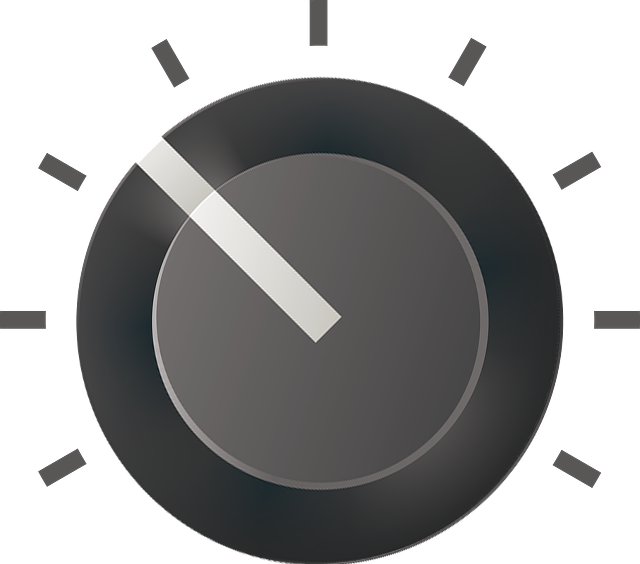
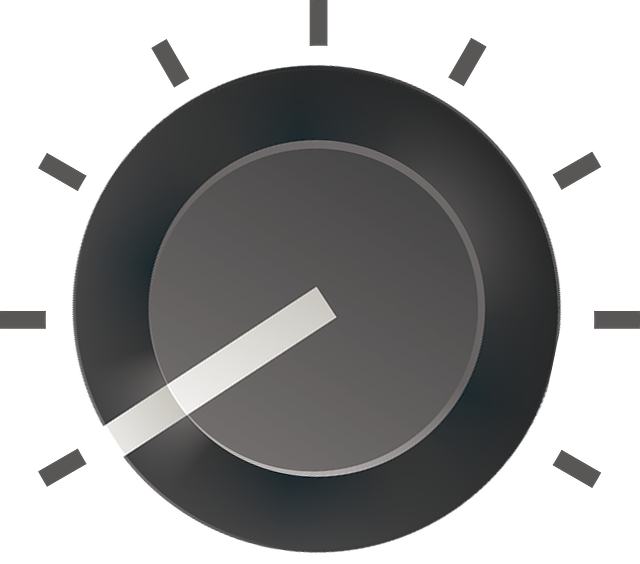
made the space button not spammable

Changed region(s): [[0.0938, 0.0904, 0.9062, 1.0], [0.7812, 0.2713, 0.8438, 0.3918]]

diff --git a/dist/main.js b/dist/main.js
@@ -142,7 +142,7 @@ eval("__webpack_require__.r(__webpack_exports__);\n/* harmony import */ var _pla
 /***/ (function(module, __webpack_exports__, __webpack_require__) {
 
 "use strict";
-eval("__webpack_require__.r(__webpack_exports__);\n/* harmony import */ var _game_js__WEBPACK_IMPORTED_MODULE_0__ = __webpack_require__(/*! ./game.js */ \"./src/game.js\");\n\r\nconst Util = __webpack_require__(/*! ./util */ \"./src/util.js\");\r\nconst spritesheet = new Image();\r\nspritesheet.src = \"../images/spritesheet.png\";\r\n\r\n// Constants and functions\r\n\r\n\r\n\r\n\r\n\r\nconst MAPSIZE = { tw: 21, th: 12 },\r\n    TILESIZE = 70,\r\n    UNIT = TILESIZE,\r\n    GRAVITY = 9.8 * 8, \r\n    MAXDX = 6,      \r\n    MAXDY = 20,      \r\n    ACCELERATION = 1 / 2,    \r\n    FRICTION = 1 / 6,   \r\n    IMPULSE = 1500,   \r\n    COLOR = { BLACK: '#000000', YELLOW: '#ECD078', BRICK: '#D95B43', PINK: '#C02942', PURPLE: '#542437', GREY: '#333', SLATE: '#53777A', GOLD: 'gold' },\r\n    COLORS = [COLOR.YELLOW, COLOR.BRICK, COLOR.PINK, COLOR.PURPLE, COLOR.GREY],\r\n    KEY = { SPACE: 32, LEFT: 37, UP: 38, RIGHT: 39, DOWN: 40, W: 87, A: 65, S: 83, D: 68, ENTER: 13},\r\n    LEVELS = [\"level2.json\", \"level3.json\", \"test-smoller.json\"]\r\n\r\n    \r\nlet currentAudio, volume\r\n\r\nlet now, last = Util.timestamp(),\r\n    dt = 0,\r\n    TWIN1ANIMATIONS = {\r\n    IDLE: { x: 0, y: 0, w: 245, h: 245, frames: 24, fps: 10 },\r\n    LEFT: { x: 0, y: 245, w: 245, h: 245, frames: 10, fps: 10 },\r\n    RIGHT: { x: 0, y: 490, w: 245, h: 245, frames: 10, fps: 10 },\r\n    // JUMPINGL: { x: 0, y: 162, w: 245, h: 245, frames: 4, fps: 10 },\r\n    // JUMPINGR: { x: 0, y: 216, w: 245, h: 245, frames: 4, fps: 10 },\r\n    FALLINGL: { x: 0, y: 735, w: 245, h: 245, frames: 2, fps: 10 },\r\n    FALLINGR: { x: 0, y: 980, w: 245, h: 245, frames: 2, fps: 10 },\r\n    }\r\n\r\n///\r\n\r\n\r\n\r\n\r\nwindow.addEventListener(\"DOMContentLoaded\", e => {\r\n\r\n\r\n\r\n\r\n\r\n    \r\n\r\n\r\n\r\n    const onKey = (ev, key, down) => {\r\n        if (stamina > 0){\r\n        switch (key) {\r\n            case KEY.A: \r\n                twin1.left = down; \r\n                twin2.left = down; \r\n                break;\r\n            case KEY.D: \r\n                twin1.right = down;\r\n                twin2.right = down; \r\n                break;\r\n            case KEY.SPACE: \r\n                    twin1.jump = down;\r\n                    twin2.jump = down;\r\n                break;\r\n            case KEY.ENTER:\r\n                handleEnter()\r\n                break;\r\n        }\r\n        }\r\n\r\n\r\n\r\n\r\n    }\r\n\r\n    const handleEnter = () =>{\r\n        if (currentLevel < 1 && currentLevel !== 1){\r\n            currentLevel = 1\r\n        }\r\n\r\n\r\n        // if (!paused){\r\n        //     // debugger\r\n        //     paused = true\r\n        // } else {\r\n        //     // debugger\r\n        //     paused = false\r\n        // }\r\n    }\r\n  \r\n    document.addEventListener('keydown', function (ev) { return onKey(ev, ev.keyCode, true); }, false);\r\n    document.addEventListener('keyup', function (ev) { return onKey(ev, ev.keyCode, false); }, false);\r\n    \r\n    const canvas = document.getElementById('canvas'),\r\n        ctx = canvas.getContext(\"2d\"),\r\n        width = canvas.width = MAPSIZE.tw * TILESIZE,\r\n        height = canvas.height = MAPSIZE.th * TILESIZE,\r\n        fps = 60,\r\n        step = 1 / fps\r\n\r\n    const spriteCoordinates = {\r\n        \"154\": {x: 48, y: 117},\r\n        \"121\": {x: 25, y: 94},\r\n        \"129\": {x: 210, y: 94},\r\n        \"122\": {x: 48, y: 94},\r\n        \"123\": {x: 71, y: 94},\r\n        \"0\": {x: 94, y: 94}\r\n    } \r\n\r\n\r\n    let twin1 = {},\r\n        twin2 = {},\r\n        cells = [],\r\n        enemies = [],\r\n        paused = false,\r\n        doors = [],\r\n        selectedLevel = \"\",\r\n        lastLevel = \"\",\r\n        gameOver = false,\r\n        gameState= {\r\n            twin1AtDoor: false,\r\n            twin2AtDoor: false,\r\n        },\r\n        stamina = 100;\r\n\r\n    const tileToPixel = t => (t * TILESIZE),\r\n        pixelToTile = p => (Math.floor(p / TILESIZE)),\r\n        cell = (x, y) => (tcell(pixeltoTile(x), pixelToTile(y))),\r\n        tcell = (tx, ty) => (cells[tx + (ty * MAPSIZE.tw)]);\r\n\r\n    const options = {\r\n        ctx,\r\n        MAPSIZE,\r\n        COLORS,\r\n        tcell,\r\n        TILESIZE,\r\n        COLOR,\r\n        spritesheet,\r\n        spriteCoordinates,\r\n        UNIT,\r\n        ACCELERATION,\r\n        FRICTION,\r\n        IMPULSE,\r\n        MAXDX,\r\n        MAXDY,\r\n        tileToPixel,\r\n        pixelToTile,\r\n        GRAVITY,\r\n        TWIN1ANIMATIONS,\r\n        enemies,\r\n        doors,\r\n        gameState\r\n    }\r\n\r\n    const gameInstance = new _game_js__WEBPACK_IMPORTED_MODULE_0__[\"default\"](\r\n            options\r\n        )\r\n\r\n    // parses json to be useable by the app. Build objects from it that can be manipulated.\r\n\r\n    const setup = map => {\r\n        let data = map.layers[0].data,\r\n            objects = map.layers[1].objects\r\n\r\n        objects.forEach(object => {\r\n            let entity = setupEntity(object);\r\n            switch (object.type){\r\n                case \"twin1\": \r\n                    twin1 = entity; \r\n                    break;\r\n                case \"twin2\" : \r\n                    twin2 = entity; \r\n                    break;\r\n                case \"enemy\" :\r\n                    enemies.push(entity);\r\n                    break;\r\n                case \"door\" :\r\n                    doors.push(entity);\r\n                    break;\r\n            }\r\n        })\r\n\r\n        cells = data\r\n    }\r\n\r\n\r\n    const setupEntity = obj => {\r\n        let entity = {};\r\n        entity.x = obj.x; // multiplied by 3 because of resize\r\n        entity.y = obj.y; // multiplied by 3 because of resize\r\n        entity.dx = 0;\r\n        entity.dy = 0;\r\n        entity.left = \"\"\r\n        entity.right = \"\"\r\n        entity.maxdx = UNIT * MAXDX;\r\n        entity.gravity = UNIT * GRAVITY;\r\n        entity.maxdy = UNIT * MAXDY;\r\n        entity.impulse = UNIT * IMPULSE;\r\n        entity.accel = entity.maxdx /  ACCELERATION;\r\n        entity.friction = entity.maxdx / FRICTION;\r\n        entity.in1 = false\r\n        entity.in2 = false\r\n        entity.name = obj.name\r\n        // entity.jump = true\r\n\r\n        obj.properties.forEach(property => {\r\n            if (property.name === \"left\") entity.left = property.value\r\n            if (property.name === \"right\") entity.left = property.value\r\n            if (property.name === \"maxdx\") {\r\n                entity.maxdx = UNIT * property.value\r\n            }\r\n            if (property.name === \"maxdy\") {\r\n                entity.maxdy = UNIT * property.value\r\n            }\r\n            if (property.name === \"jump\"){\r\n                entity.jump = property.value\r\n            }\r\n            \r\n        })\r\n\r\n        // entity.enemy = obj.type == \"enemy\";\r\n        // entity.twin1 = obj.type == \"twin1\";\r\n        // entity.treasure = obj.type == \"treasure\";\r\n        // entity.twin2 = obj.type == \"twin2\";\r\n        // entity.left = obj.properties.find(property => property.name = \"left\").value\r\n        // entity.right = obj.properties.right;\r\n        entity.start = { x: obj.x , y: obj.y }\r\n        entity.killed = entity.collected = 0;\r\n        entity.animation = {}\r\n        return entity;\r\n    }\r\n\r\n\r\n    const frame = () => {\r\n        if(gameInstance.gameRunning) {\r\n        now = Util.timestamp();\r\n        dt = dt + Math.min(1, (now - last) / 1000);\r\n        while (dt > step) {\r\n            dt = dt - step;\r\n            gameInstance.update(twin1, twin2, step);\r\n        }\r\n        gameInstance.render(ctx, twin1, twin2, width, height, dt);\r\n        last = now;\r\n        requestAnimationFrame(frame, canvas);\r\n        } else {\r\n            \r\n            switch (gameInstance.currentLevel){\r\n                case 2:\r\n                    Util.get(\"level2.json\", resetGame);\r\n                    debugger\r\n                    // Audio(\"../audio/stage loop1.mp3\")\r\n                    break;\r\n                case 3:\r\n                    Util.get(\"level3.json\", resetGame);\r\n                    break;\r\n                default: \r\n                    Util.get( endless() , resetGame);\r\n                    lastLevel = selectedLevel.slice();\r\n                    break;\r\n            }\r\n\r\n        }\r\n    }\r\n\r\n    const endless = () =>{\r\n        selectedLevel = LEVELS[Math.floor(LEVELS.length * Math.random())]\r\n        while (selectedLevel === lastLevel) {\r\n            selectedLevel = LEVELS[Math.floor(LEVELS.length * Math.random())]\r\n        }\r\n        return selectedLevel\r\n    }\r\n\r\n    const resetGame = req => {\r\n        enemies.length = 0\r\n        doors.length = 0\r\n        setup(JSON.parse(req.responseText));\r\n        gameInstance.gameRunning = true\r\n        frame();\r\n    }\r\n\r\n    const Audio = (audio) =>{\r\n        let url = audio;\r\n\r\n        let context = new AudioContext();\r\n        let source = context.createBufferSource();\r\n        let gain = context.createGain();\r\n        volume = gain.gain\r\n        gain.connect(context.destination)\r\n        source.connect(gain);\r\n        let request = new XMLHttpRequest();\r\n        request.open('GET', url, true);\r\n\r\n        request.responseType = 'arraybuffer';\r\n        request.onload = function () {\r\n            context.decodeAudioData(request.response, function (response) {\r\n                source.buffer = response;\r\n                currentAudio = source\r\n                source.start(0);\r\n                source.loop = true;\r\n            }, function () { console.error('The request failed.'); });\r\n        }\r\n        request.send();\r\n    }\r\n\r\n\r\n    Util.get(\"level1.json\", req => {\r\n        setup(JSON.parse(req.responseText));\r\n        // Audio(\"../audio/stage loop1.mp3\");\r\n        frame();\r\n    });   \r\n\r\n\r\n    document.getElementById(\"mute\").addEventListener(\"click\", e => {\r\n        if (volume.value === 1) { \r\n            volume.value = 0\r\n            document.getElementById(\"mute\").src = \"../images/knob-left.png\"\r\n        } else {\r\n            volume.value = 1\r\n            document.getElementById(\"mute\").src = \"../images/knob-right.png\"\r\n        }\r\n    })\r\n    // Grab level data from json.\r\n\r\n})\r\n\r\n\n\n//# sourceURL=webpack:///./src/index.js?");
+eval("__webpack_require__.r(__webpack_exports__);\n/* harmony import */ var _game_js__WEBPACK_IMPORTED_MODULE_0__ = __webpack_require__(/*! ./game.js */ \"./src/game.js\");\n\r\nconst Util = __webpack_require__(/*! ./util */ \"./src/util.js\");\r\nconst spritesheet = new Image();\r\nspritesheet.src = \"../images/spritesheet.png\";\r\n\r\n// Constants and functions\r\n\r\n\r\n\r\n\r\n\r\nconst MAPSIZE = { tw: 21, th: 12 },\r\n    TILESIZE = 70,\r\n    UNIT = TILESIZE,\r\n    GRAVITY = 9.8 * 8, \r\n    MAXDX = 6,      \r\n    MAXDY = 20,      \r\n    ACCELERATION = 1 / 2,    \r\n    FRICTION = 1 / 6,   \r\n    IMPULSE = 1500,   \r\n    COLOR = { BLACK: '#000000', YELLOW: '#ECD078', BRICK: '#D95B43', PINK: '#C02942', PURPLE: '#542437', GREY: '#333', SLATE: '#53777A', GOLD: 'gold' },\r\n    COLORS = [COLOR.YELLOW, COLOR.BRICK, COLOR.PINK, COLOR.PURPLE, COLOR.GREY],\r\n    KEY = { SPACE: 32, LEFT: 37, UP: 38, RIGHT: 39, DOWN: 40, W: 87, A: 65, S: 83, D: 68, ENTER: 13},\r\n    LEVELS = [\"level2.json\", \"level3.json\", \"test-smoller.json\"]\r\n\r\n    \r\nlet currentAudio, volume\r\n\r\nlet now, last = Util.timestamp(),\r\n    dt = 0,\r\n    TWIN1ANIMATIONS = {\r\n    IDLE: { x: 0, y: 0, w: 245, h: 245, frames: 24, fps: 10 },\r\n    LEFT: { x: 0, y: 245, w: 245, h: 245, frames: 10, fps: 10 },\r\n    RIGHT: { x: 0, y: 490, w: 245, h: 245, frames: 10, fps: 10 },\r\n    // JUMPINGL: { x: 0, y: 162, w: 245, h: 245, frames: 4, fps: 10 },\r\n    // JUMPINGR: { x: 0, y: 216, w: 245, h: 245, frames: 4, fps: 10 },\r\n    FALLINGL: { x: 0, y: 735, w: 245, h: 245, frames: 2, fps: 10 },\r\n    FALLINGR: { x: 0, y: 980, w: 245, h: 245, frames: 2, fps: 10 },\r\n    }\r\n\r\n///\r\n\r\n\r\n\r\n\r\nwindow.addEventListener(\"DOMContentLoaded\", e => {\r\n\r\n\r\n\r\n\r\n\r\n    \r\n\r\n\r\n\r\n    const onKey = (ev, key, down) => {\r\n        if (stamina > 0){\r\n        switch (key) {\r\n            case KEY.A: \r\n                twin1.left = down; \r\n                twin2.left = down; \r\n                break;\r\n            case KEY.D: \r\n                twin1.right = down;\r\n                twin2.right = down; \r\n                break;\r\n            case KEY.SPACE: \r\n                    twin1.jump = down;\r\n                    twin2.jump = down;\r\n                    setTimeout(handleJump, 100)\r\n                break;\r\n            case KEY.ENTER:\r\n                handleEnter()\r\n                break;\r\n        }\r\n        }\r\n\r\n\r\n\r\n\r\n    }\r\n\r\n    const handleJump = () => {\r\n        twin1.jump = false\r\n        twin2.jump =false\r\n    }\r\n\r\n    const handleEnter = () =>{\r\n        if (currentLevel < 1 && currentLevel !== 1){\r\n            currentLevel = 1\r\n        }\r\n\r\n\r\n        // if (!paused){\r\n        //     // debugger\r\n        //     paused = true\r\n        // } else {\r\n        //     // debugger\r\n        //     paused = false\r\n        // }\r\n    }\r\n  \r\n    document.addEventListener('keydown', function (ev) { return onKey(ev, ev.keyCode, true); }, false);\r\n    document.addEventListener('keyup', function (ev) { return onKey(ev, ev.keyCode, false); }, false);\r\n\r\n    const canvas = document.getElementById('canvas'),\r\n        ctx = canvas.getContext(\"2d\"),\r\n        width = canvas.width = MAPSIZE.tw * TILESIZE,\r\n        height = canvas.height = MAPSIZE.th * TILESIZE,\r\n        fps = 60,\r\n        step = 1 / fps\r\n\r\n    const sidebar = document.getElementById(\"sidebar\")\r\n        sidebar.style.cssText = `height: ${canvas.clientHeight}px`\r\n    const gameDiv = document.getElementById(\"game\")\r\n\r\n    const spriteCoordinates = {\r\n        \"154\": {x: 48, y: 117},\r\n        \"121\": {x: 25, y: 94},\r\n        \"129\": {x: 210, y: 94},\r\n        \"122\": {x: 48, y: 94},\r\n        \"123\": {x: 71, y: 94},\r\n        \"0\": {x: 94, y: 94}\r\n    } \r\n\r\n\r\n    let twin1 = {},\r\n        twin2 = {},\r\n        cells = [],\r\n        enemies = [],\r\n        paused = false,\r\n        doors = [],\r\n        selectedLevel = \"\",\r\n        lastLevel = \"\",\r\n        gameOver = false,\r\n        gameState= {\r\n            twin1AtDoor: false,\r\n            twin2AtDoor: false,\r\n        },\r\n        stamina = 100;\r\n\r\n    const tileToPixel = t => (t * TILESIZE),\r\n        pixelToTile = p => (Math.floor(p / TILESIZE)),\r\n        cell = (x, y) => (tcell(pixeltoTile(x), pixelToTile(y))),\r\n        tcell = (tx, ty) => (cells[tx + (ty * MAPSIZE.tw)]);\r\n\r\n    const options = {\r\n        ctx,\r\n        MAPSIZE,\r\n        COLORS,\r\n        tcell,\r\n        TILESIZE,\r\n        COLOR,\r\n        spritesheet,\r\n        spriteCoordinates,\r\n        UNIT,\r\n        ACCELERATION,\r\n        FRICTION,\r\n        IMPULSE,\r\n        MAXDX,\r\n        MAXDY,\r\n        tileToPixel,\r\n        pixelToTile,\r\n        GRAVITY,\r\n        TWIN1ANIMATIONS,\r\n        enemies,\r\n        doors,\r\n        gameState\r\n    }\r\n\r\n    const gameInstance = new _game_js__WEBPACK_IMPORTED_MODULE_0__[\"default\"](\r\n            options\r\n        )\r\n\r\n    // parses json to be useable by the app. Build objects from it that can be manipulated.\r\n\r\n    const setup = map => {\r\n        let data = map.layers[0].data,\r\n            objects = map.layers[1].objects\r\n\r\n        objects.forEach(object => {\r\n            let entity = setupEntity(object);\r\n            switch (object.type){\r\n                case \"twin1\": \r\n                    twin1 = entity; \r\n                    break;\r\n                case \"twin2\" : \r\n                    twin2 = entity; \r\n                    break;\r\n                case \"enemy\" :\r\n                    enemies.push(entity);\r\n                    break;\r\n                case \"door\" :\r\n                    doors.push(entity);\r\n                    break;\r\n            }\r\n        })\r\n\r\n        cells = data\r\n    }\r\n\r\n\r\n    const setupEntity = obj => {\r\n        let entity = {};\r\n        entity.x = obj.x; // multiplied by 3 because of resize\r\n        entity.y = obj.y; // multiplied by 3 because of resize\r\n        entity.dx = 0;\r\n        entity.dy = 0;\r\n        entity.left = \"\"\r\n        entity.right = \"\"\r\n        entity.maxdx = UNIT * MAXDX;\r\n        entity.gravity = UNIT * GRAVITY;\r\n        entity.maxdy = UNIT * MAXDY;\r\n        entity.impulse = UNIT * IMPULSE;\r\n        entity.accel = entity.maxdx /  ACCELERATION;\r\n        entity.friction = entity.maxdx / FRICTION;\r\n        entity.in1 = false\r\n        entity.in2 = false\r\n        entity.name = obj.name\r\n        // entity.jump = true\r\n\r\n        obj.properties.forEach(property => {\r\n            if (property.name === \"left\") entity.left = property.value\r\n            if (property.name === \"right\") entity.left = property.value\r\n            if (property.name === \"maxdx\") {\r\n                entity.maxdx = UNIT * property.value\r\n            }\r\n            if (property.name === \"maxdy\") {\r\n                entity.maxdy = UNIT * property.value\r\n            }\r\n            if (property.name === \"jump\"){\r\n                entity.jump = property.value\r\n            }\r\n            \r\n        })\r\n\r\n        // entity.enemy = obj.type == \"enemy\";\r\n        // entity.twin1 = obj.type == \"twin1\";\r\n        // entity.treasure = obj.type == \"treasure\";\r\n        // entity.twin2 = obj.type == \"twin2\";\r\n        // entity.left = obj.properties.find(property => property.name = \"left\").value\r\n        // entity.right = obj.properties.right;\r\n        entity.start = { x: obj.x , y: obj.y }\r\n        entity.killed = entity.collected = 0;\r\n        entity.animation = {}\r\n        return entity;\r\n    }\r\n\r\n\r\n    const frame = () => {\r\n        if(gameInstance.gameRunning) {\r\n        now = Util.timestamp();\r\n        dt = dt + Math.min(1, (now - last) / 1000);\r\n        while (dt > step) {\r\n            dt = dt - step;\r\n            gameInstance.update(twin1, twin2, step);\r\n        }\r\n        gameInstance.render(ctx, twin1, twin2, width, height, dt);\r\n        last = now;\r\n        requestAnimationFrame(frame, canvas);\r\n        } else {\r\n            \r\n            switch (gameInstance.currentLevel){\r\n                case 2:\r\n                    Util.get(\"level2.json\", resetGame);\r\n                    debugger\r\n                    // Audio(\"../audio/stage loop1.mp3\")\r\n                    break;\r\n                case 3:\r\n                    Util.get(\"level3.json\", resetGame);\r\n                    break;\r\n                default: \r\n                    Util.get( endless() , resetGame);\r\n                    lastLevel = selectedLevel.slice();\r\n                    break;\r\n            }\r\n\r\n        }\r\n    }\r\n\r\n    const endless = () =>{\r\n        selectedLevel = LEVELS[Math.floor(LEVELS.length * Math.random())]\r\n        while (selectedLevel === lastLevel) {\r\n            selectedLevel = LEVELS[Math.floor(LEVELS.length * Math.random())]\r\n        }\r\n        return selectedLevel\r\n    }\r\n\r\n    const resetGame = req => {\r\n        enemies.length = 0\r\n        doors.length = 0\r\n        setup(JSON.parse(req.responseText));\r\n        gameInstance.gameRunning = true\r\n        frame();\r\n    }\r\n\r\n    const Audio = (audio) =>{\r\n        let url = audio;\r\n\r\n        let context = new AudioContext();\r\n        let source = context.createBufferSource();\r\n        let gain = context.createGain();\r\n        volume = gain.gain\r\n        gain.connect(context.destination)\r\n        source.connect(gain);\r\n        let request = new XMLHttpRequest();\r\n        request.open('GET', url, true);\r\n\r\n        request.responseType = 'arraybuffer';\r\n        request.onload = function () {\r\n            context.decodeAudioData(request.response, function (response) {\r\n                source.buffer = response;\r\n                currentAudio = source\r\n                source.start(0);\r\n                source.loop = true;\r\n            }, function () { console.error('The request failed.'); });\r\n        }\r\n        request.send();\r\n    }\r\n\r\n\r\n    Util.get(\"level1.json\", req => {\r\n        setup(JSON.parse(req.responseText));\r\n        // Audio(\"../audio/stage loop1.mp3\");\r\n        frame();\r\n    });   \r\n\r\n\r\n    document.getElementById(\"mute\").addEventListener(\"click\", e => {\r\n        if (volume.value === 1) { \r\n            volume.value = 0\r\n            document.getElementById(\"mute\").src = \"../images/knob-left.png\"\r\n        } else {\r\n            volume.value = 1\r\n            document.getElementById(\"mute\").src = \"../images/knob-right.png\"\r\n        }\r\n    })\r\n    // Grab level data from json.\r\n\r\n})\r\n\r\n\n\n//# sourceURL=webpack:///./src/index.js?");
 
 /***/ }),
 

diff --git a/dist/style.css b/dist/style.css
@@ -8,8 +8,7 @@ body{
 .background{
     display: flex;
     color: white;
-    width: 100%;
-    height: 98vh;
+    height: calc(100vh - 19px);
     background-color: rgb(37, 5, 5);
     box-shadow: inset 0 0 100px black;
     padding: 0 40px;
@@ -31,18 +30,21 @@ body{
     align-items: center;
     flex-direction: column;
     position: relative;
-    justify-content: space-between;
-    height: 100%;
-    background: white;
+    /* justify-content: space-between; */
+    /* height: 100%; */
+    background: rgb(235, 235, 235);
+    border-top: 30px solid rgb(235, 235, 235);
     border-radius: 10px;
-    margin-top: 10px ;
+    margin-top: auto;
+    margin-bottom: auto;
     margin-right: 10px;
 }
 
 
 
 .canvas-wrapper{
-    /* padding-top: 20px; */
+    margin-top: auto;
+    margin-bottom: auto;
 }
 
 .game{
@@ -50,7 +52,7 @@ body{
   height: auto;
   width: 100%;
    /* height: auto; */
-   display: flex;
+  display: flex;
    /* justify-content: center; */
 }
 
@@ -58,8 +60,16 @@ body{
     /* margin-right: 10; */
     width: 80%;
     padding: 0 20px;
+    /* margin-top: 40px; */
+    cursor: pointer;
 }
 
+.volume{
+    color: rgb(51, 51, 51);
+    margin-bottom: 20px;
+    font-size: 18px;
+    font-family: sans-serif;
+}
   
 .post-it{
     width: 121%;
@@ -68,29 +78,6 @@ body{
 
 
 
-.how-to{
-z-index: 5;
-    top: -308px;
-    left: 108px;
-    position: relative;
-    color: black;
-    font-family: 'Schoolbell', arial, serif;
-    font-size: 30px;
-    font-weight: bold;
-    letter-spacing: 1px;
-}
-
-.how-to ul {
-position: relative;
-    font-size: 21px;
-    top: -13px;
-    left: -32px;
-}
-
-.how-to li {
-    width: 119px;
-}
-
-.how-to li:last-child{
-    margin-top: 10px;
+.instructions{
+    margin-top: auto;
 }

diff --git a/src/index.js b/src/index.js
@@ -67,6 +67,7 @@ window.addEventListener("DOMContentLoaded", e => {
             case KEY.SPACE: 
                     twin1.jump = down;
                     twin2.jump = down;
+                    setTimeout(handleJump, 100)
                 break;
             case KEY.ENTER:
                 handleEnter()
@@ -77,6 +78,11 @@ window.addEventListener("DOMContentLoaded", e => {
 
 
 
+    }
+
+    const handleJump = () => {
+        twin1.jump = false
+        twin2.jump =false
     }
 
     const handleEnter = () =>{
@@ -96,13 +102,17 @@ window.addEventListener("DOMContentLoaded", e => {
   
     document.addEventListener('keydown', function (ev) { return onKey(ev, ev.keyCode, true); }, false);
     document.addEventListener('keyup', function (ev) { return onKey(ev, ev.keyCode, false); }, false);
-    
+
     const canvas = document.getElementById('canvas'),
         ctx = canvas.getContext("2d"),
         width = canvas.width = MAPSIZE.tw * TILESIZE,
         height = canvas.height = MAPSIZE.th * TILESIZE,
         fps = 60,
         step = 1 / fps
+
+    const sidebar = document.getElementById("sidebar")
+        sidebar.style.cssText = `height: ${canvas.clientHeight}px`
+    const gameDiv = document.getElementById("game")
 
     const spriteCoordinates = {
         "154": {x: 48, y: 117},

diff --git a/dist/index.html b/dist/index.html
@@ -15,7 +15,8 @@
 
 
         <div class="game" id="game">
-            <div class="left-side">
+            <div class="left-side" id="sidebar">
+                <div class="volume">Volume</div>
                 <img class="mute-button" id="mute" src="../images/knob-right.png"></img>
                 <div class="instructions">
                     <img class="post-it" src="../images/post-it.png"><img>
